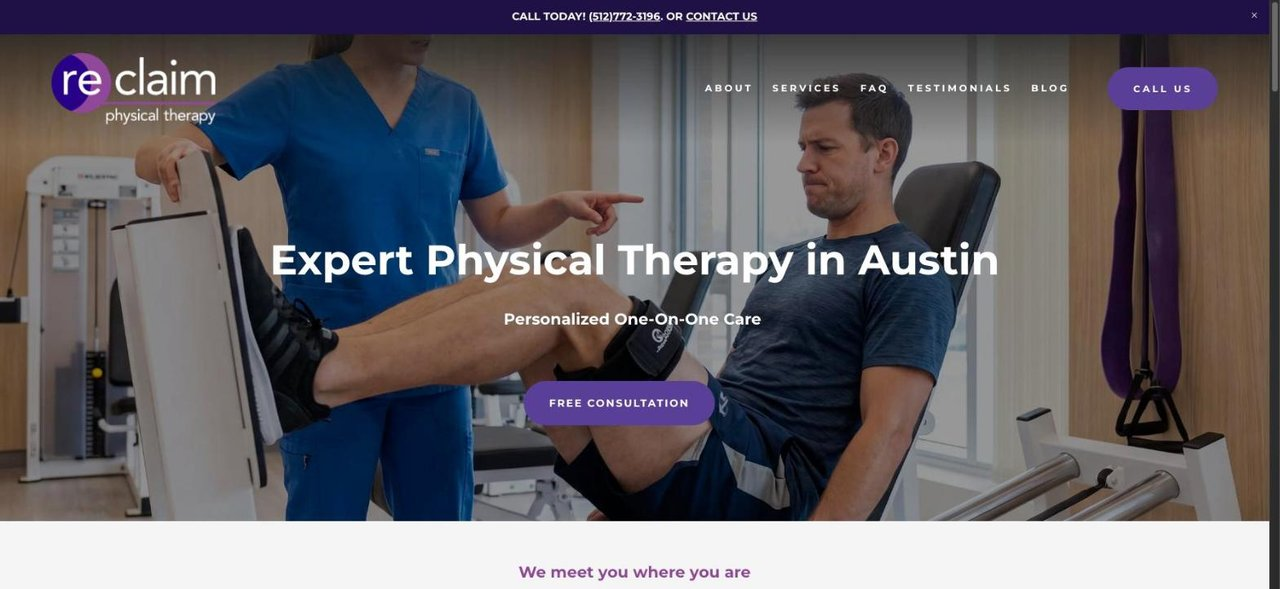
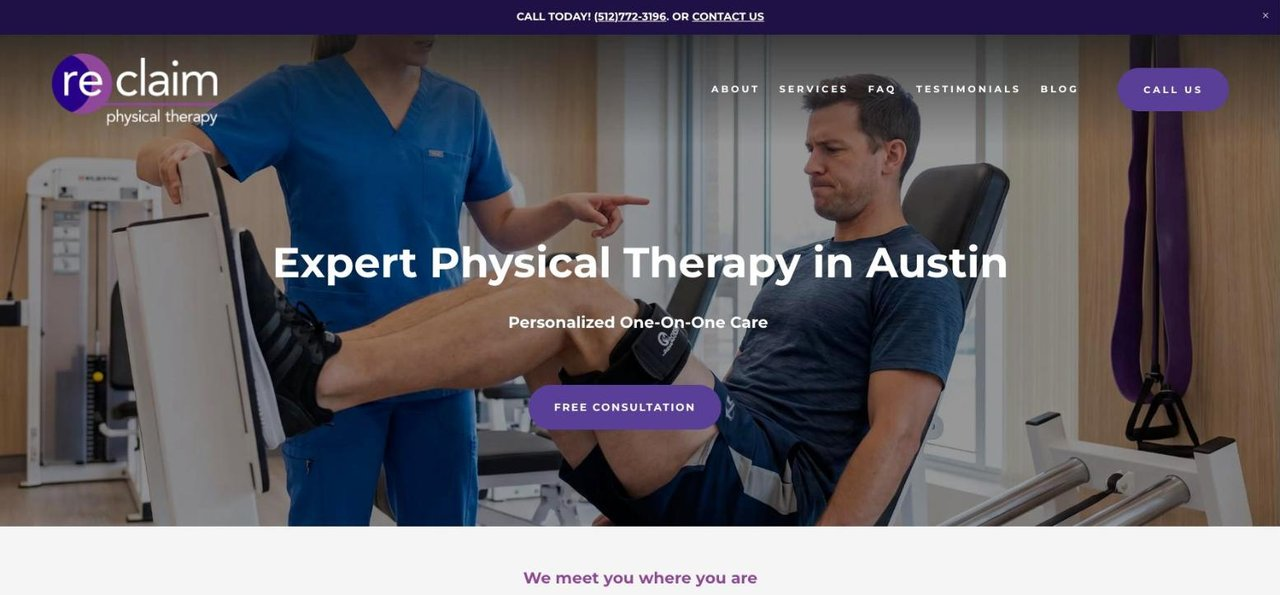
Crop browser scrollbar from Reclaim case study image
Claude-Session: https://claude.ai/code/session_01VrLjWNHDC2yPVbyTY9J8pf

diff --git a/lib/projects.ts b/lib/projects.ts
@@ -80,7 +80,7 @@ const imageDimensions: Record<string, readonly [width: number, height: number]> 
   '10-pillar-productions/web-10-pillar.jpg': [1280, 720],
   'alh-senior-solutions/web-alh.jpg': [1280, 720],
   'clement-senior-solutions/web-clement.jpg': [1280, 720],
-  'reclaim-physical-therapy/web-reclaim.jpg': [1280, 589],
+  'reclaim-physical-therapy/web-reclaim.jpg': [1280, 595],
   'dr-saba-syed/web-dr-saba-syed.jpg': [1280, 720],
   'hiking-pony/packaging-range.jpg': [1920, 1280],
   'hiking-pony/sweet-cream-packaging.jpg': [1920, 1280],
